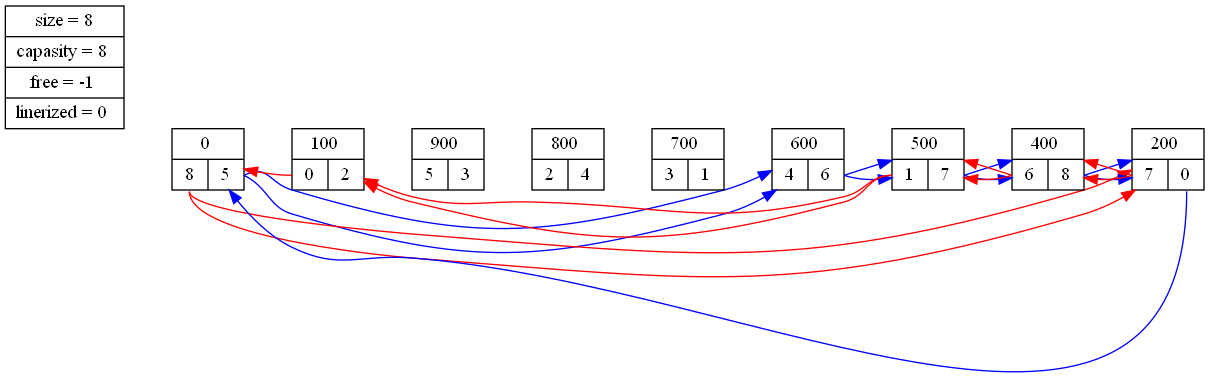
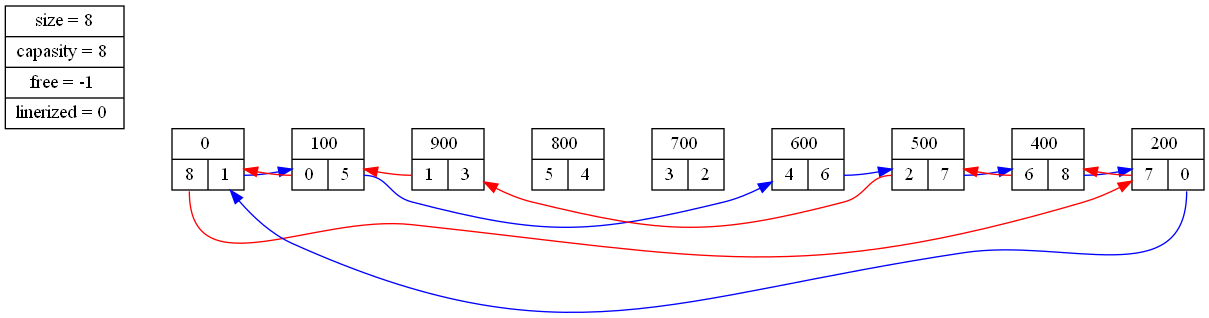
little graphic dump fix

diff --git a/ListLogs.html b/ListLogs.html
@@ -1,1 +1,14 @@
 <pre>
+
+Dump in main.cpp(41) in function int main()
+Stack[000000000061FDE0] "&list"created at int main() at main.cpp(-168797888):
+Status: enable
+{
+	size     = 8
+	capacity = 8
+	free     = 4294967295
+	data:|         0|       100|       900|       800|       700|       600|       500|       400|       200|
+	next:|         1|         5|         3|         4|         2|         6|         7|         8|         0|
+	prev:|         8|         0|         1|         5|         3|         4|         2|         6|         7|
+}
+

diff --git a/List/List.h b/List/List.h
@@ -169,7 +169,6 @@ int ListLinerization(List* list)
         ListIterate(list, &index);
         if (index == -1)
             return -1;
-            printf("[%d]index = %d\n", i, index);
 
         new_data[i + 1].val  = list->data[index].val;
 
@@ -266,6 +265,8 @@ void GraphicDump(List* list)
         int prev = list->data[index].prev;
         fprintf(fp, "Node%d:<p> -> Node%d\n", index, prev);
         index = prev;
+        if (index == 0)
+            break;
     }
     
     fprintf(fp, "edge [style = solid, color = \"blue\", constraint = false]\n");
@@ -275,6 +276,8 @@ void GraphicDump(List* list)
         int next = list->data[index].next;
         fprintf(fp, "Node%d:<n> -> Node%d\n", index, next);
         index = next;
+        if (index == 0)
+            break;
     }
 
     fprintf(fp, "edge [style = solid, color = \"black\", constraint = false]\n");

diff --git a/main.cpp b/main.cpp
@@ -37,7 +37,8 @@ int main()
     
     GraphicDump(&list);
 
-    ListSwap(&list, 1, 5);
+    ListSwap(&list, 2, 5);
+    DUMP_L(&list);
 
     GraphicDump(&list);
 
